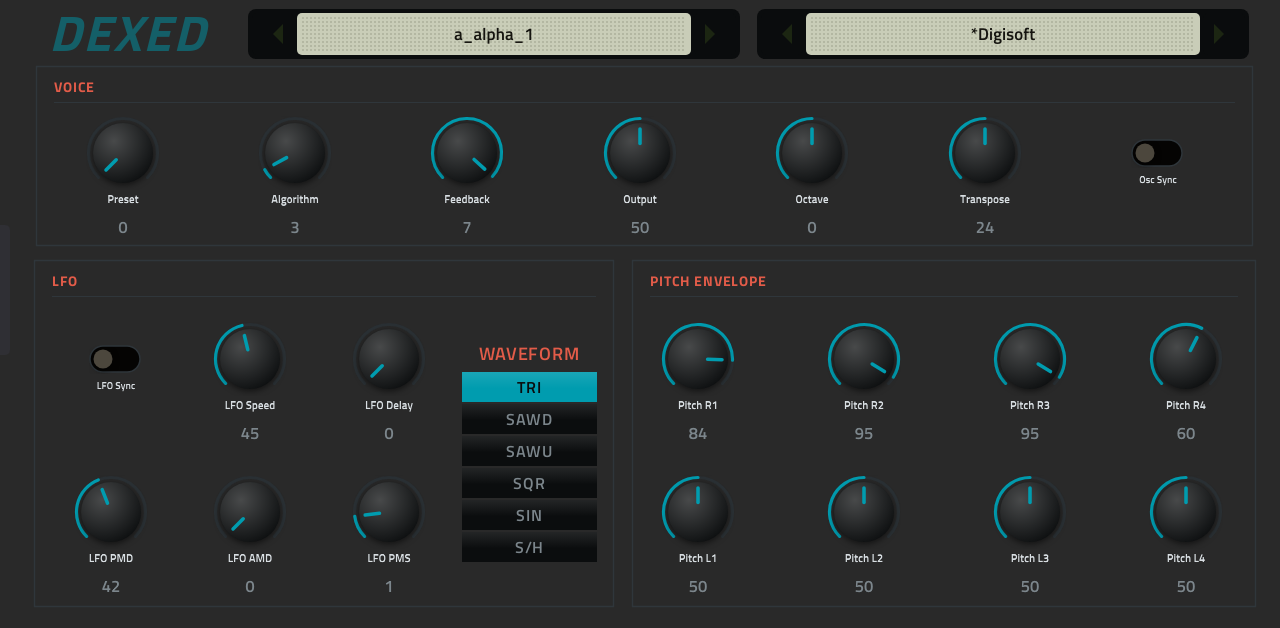
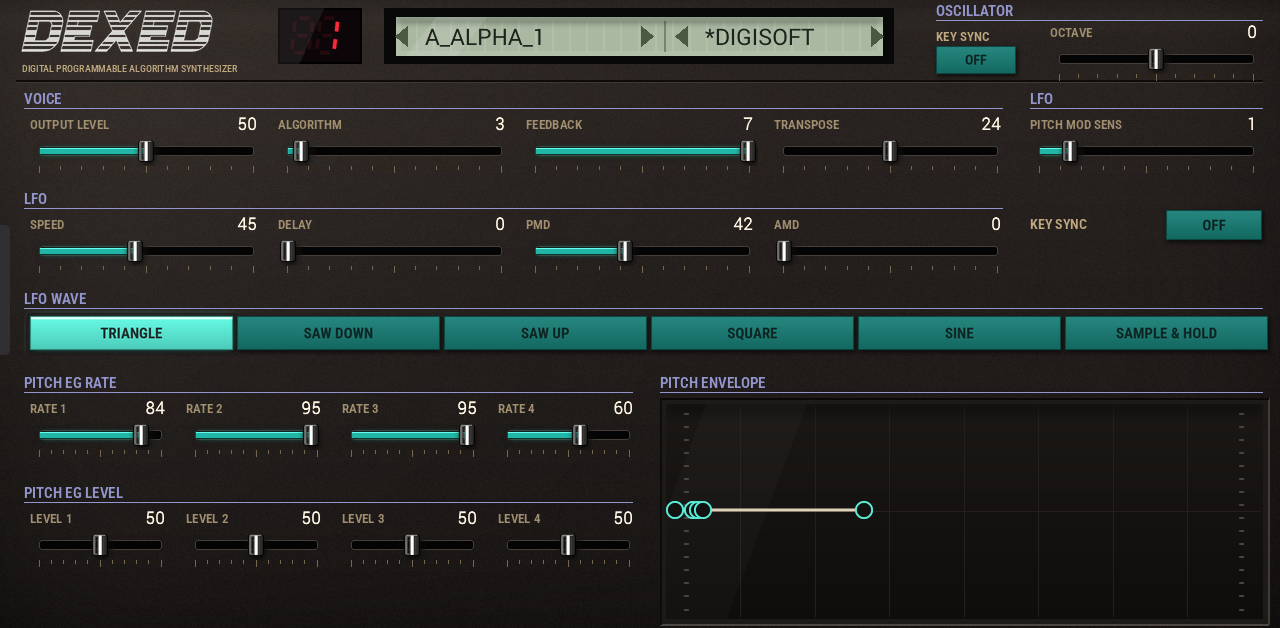
Screenshots of the 2.0 skin: README and the catalog image (#17)
Claude-Session: https://claude.ai/code/session_01V7tb5wDCoJu6NdtsFQqU6w

diff --git a/README.md b/README.md
@@ -10,7 +10,21 @@ Current release: **v2.0.0**, see [Releases](https://github.com/sd88me/mpc-vst-dx
 
 ## Screenshots
 
-(2.0 screenshots: see the release page.)
+VOICE: the LCD with the cart and patch, the voice controls, the LFO and the pitch envelope.
+
+![VOICE page](docs/img/dexed-dx7.png)
+
+ALGO: the algorithm diagram, an operator mixer and GENERATE.
+
+![ALGO page](docs/img/dexed-dx7-algo.png)
+
+OP1 to OP6 (one key, six sub-tabs): oscillator, sensitivity, keyboard level scaling and the operator's envelope.
+
+![OP page](docs/img/dexed-dx7-op1.png)
+
+CARTS: every cart on the device, the 32 patches of the loaded one, and favourites.
+
+![CARTS page](docs/img/dexed-dx7-carts.png)
 
 ## Features
 
